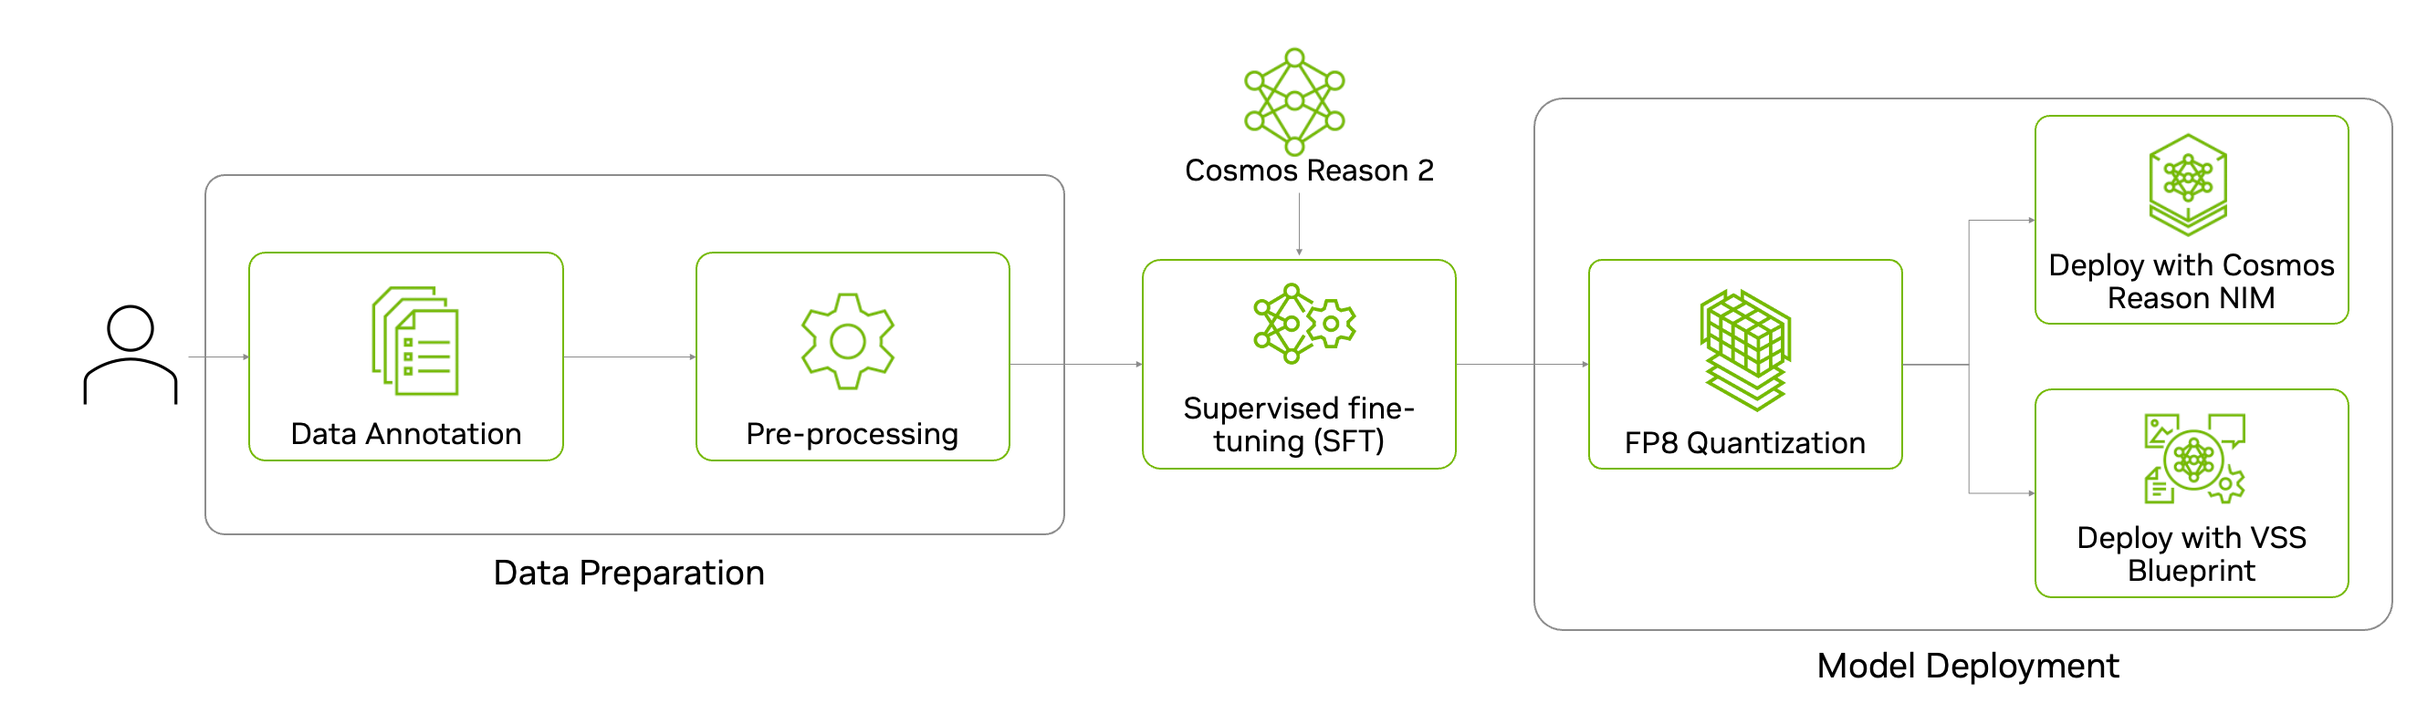
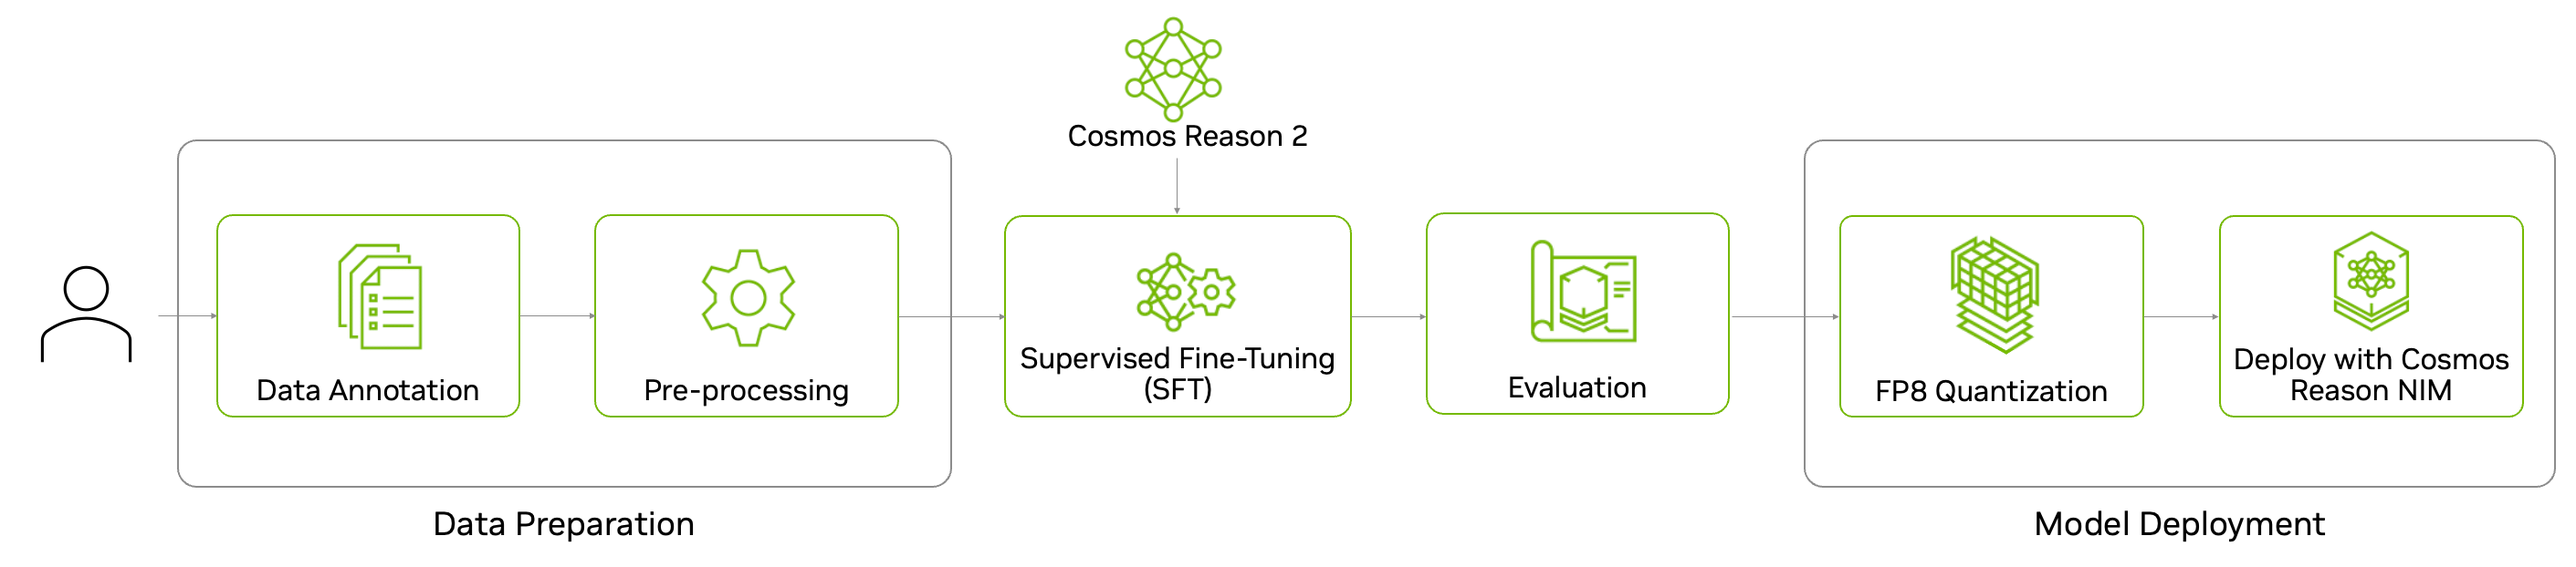
update recipe to address feedback

diff --git a/docs/recipes/post_training/reason2/intelligent-transportation/post_training.md b/docs/recipes/post_training/reason2/intelligent-transportation/post_training.md
@@ -20,9 +20,14 @@ Before fine-tuning the model, let's review the zero-shot performance of the mode
 
 <br>
 
+Here’s the end-to-end workflow to fine-tune Cosmos Reason 2 - from data preparation, to training and evaluating the model, and finally quantizing and deploying the model for inference.
+<img src="assets/e2e_workflow.png"/>
+
+<br>
+
 ## Data Preparation
 
-For this experiment, we used the [WovenTraffic Safety](https://woven-visionai.github.io/wts-dataset-homepage/) (WTS) Dataset from [Woven by Toyota, Inc.](https://woven.toyota/en/). This is a real-world pedestrian-centric traffic video dataset featuring 255 traffic scenarios, including staged pedestrian-related accidents across 1.2k video segments. It provides detailed textual descriptions of pedestrian and vehicle behavior, bounding box annotations, and traffic Visual Question Answering (VQA) with multiple-choice questions (MCQ).
+For this experiment, we use the [WovenTraffic Safety](https://woven-visionai.github.io/wts-dataset-homepage/) (WTS) Dataset from [Woven by Toyota, Inc.](https://woven.toyota/en/). This is a real-world pedestrian-centric traffic video dataset featuring 255 traffic scenarios, including staged pedestrian-related accidents across 1.2k video segments. It provides detailed textual descriptions of pedestrian and vehicle behavior, bounding box annotations, and traffic Visual Question Answering (VQA) with multiple-choice questions (MCQ).
 
 > **Note**: The goal of this example is to demonstrate post-training on Cosmos Reason 2. The dataset used in this experiment is governed by the terms specified in the [WTS DATASET Terms of Use](https://woven-visionai.github.io/wts-dataset-homepage/#downloads).
 
@@ -31,7 +36,7 @@ Here are examples of the video clips and textual descriptions of the pedestrian 
 
 <br>
 
-For this experiment, we fine-tune the Cosmos Reason 2 model on the Environment VQA subset of the WTS dataset. The subset contains 341 videos with 5k MCQ question-answer pairs. The average video length is about 75 seconds.
+For this experiment, we fine-tune the Cosmos Reason 2 model on the Environment VQA subset of the WTS dataset. The subset contains 341 videos with 5.6k MCQ question-answer pairs. The average video length is about 75 seconds.
 
 ### Data Pre-processing
 
@@ -59,7 +64,7 @@ This format is a JSON-based structure commonly used for visual SFT on VLMs, incl
   }
   ```
 
-To pre-process the dataset, run the following command:
+To pre-process the dataset, run the following command using the provided [script](https://github.com/nvidia-cosmos/cosmos-cookbook/tree/main/scripts/examples/reason2/intelligent-transportation/data_preprocess.py):
 
    ```shell
    # From scripts/examples/reason2/intelligent-transportation directory
@@ -70,7 +75,7 @@ To pre-process the dataset, run the following command:
 
 ## Post-Training with Supervised Fine-Tuning (SFT)
 
-After preprocessing, the WTS dataset is in Llava dataset format and ready for training. To launch training, we follow the cosmos-rl training command in [Cosmos Reason 2 SFT Guide](https://github.com/nvidia-cosmos/cosmos-reason2/blob/main/examples/cosmos_rl/README.md#supervised-fine-tuning-sft):
+After preprocessing, the WTS dataset is in Llava dataset format and ready for training. To launch training, we follow the cosmos-rl training command in [Cosmos Reason 2 SFT Guide](https://github.com/nvidia-cosmos/cosmos-reason2/blob/main/examples/cosmos_rl/README.md#supervised-fine-tuning-sft). The specific code for this experiment can be found [here](https://github.com/nvidia-cosmos/cosmos-cookbook/tree/main/scripts/examples/reason2/intelligent-transportation).
 
 ```shell
 # From scripts/examples/reason2/intelligent-transportation directory
@@ -117,7 +122,7 @@ For Qwen3-VL (the backbone model of Cosmos Reason 2), the model compresses the i
 
 ### Model Evaluation
 
-After training, we evaluate the model on the validation set of the Environment VQA subset of the WTS dataset. The evaluation script below will save the model responses and accuracy score in the `results` directory.
+After training, we evaluate the model on the validation set of the Environment VQA subset of the WTS dataset. Similar to the training set, the validation set is also a collection of multiple choice questions (MCQ) on traffic and pedestrian videos. It contains 171 videos with 2.6k MCQ questions, which are unseen during training. The evaluation script below will save the model responses and accuracy score in the `results` directory.
 
 The `eval_config.yaml` needs to be updated with the path to the post-trained model and the validation set.
 
@@ -132,15 +137,15 @@ python evaluate.py --config eval_config.yaml
 
 ### Quantitative Results
 
-First, let's review the quantitative results on the environment VQA validation set of the WTS dataset for each experiment: one with "nframes 8" (3k vision tokens) and another with "fps 1, total pixels 8,388,608" (8k vision tokens). Similar to the training set, the validation set is also a collection of multiple choice questions (MCQ) on traffic and pedestrian videos, which are unseen during training.
+First, let's review the quantitative results on the environment VQA validation set for each experiment: one with "nframes 8" (3k vision tokens) and another with "fps 1, total pixels 8,388,608" (8k vision tokens). As calculated above, the 3k tokens setup samples fewer frames but uses a higher resolution per frame, while the 8k tokens setup samples more frames but at a lower resolution per frame.
 
-Overall, we see the accuracy jumps over 92% for both experiments after 1 epoch of training. For 3k tokens, accuracy keeps increasing over 3 epochs of training and reaches 93.65% in the end, while for 8k tokens, the model is more prone to overfitting with more training epochs. For this task and dataset, 3k vision tokens give us overall better performance and will converge faster and provide faster inference times.
+For this task, it appears that having higher resolution per frame (even with fewer frames sampled) is more valuable for the model to accurately understand the traffic scene and pedestrian situations. This is reflected in the results: both experiments surpass 92% accuracy after just 1 epoch of training. With the 3k tokens setup, accuracy continues to improve over 3 epochs, reaching 93.65%, whereas the 8k tokens model tends to overfit with additional training. Thus, for this dataset, prioritizing higher resolution (3k vision tokens) leads to better overall performance, faster convergence, and faster inference times.
 
 <img src="assets/quan_result.png" width="600"/>
 
 ### Training Time
 
-We ran all the experiments on 1 node (8 GPUs) of A100. The table below captures the training time for the two different settings with one training epoch. As expected, with 3k vision tokens, the model converged roughly 3 times as fast as 8k vision tokens. In summary, you can train a very accurate model using this amount of data in an hour or less.
+We ran all the experiments on 1 node (8 GPUs) of A100. The table below captures the training time for the two different settings with three training epoch. As expected, with 3k vision tokens, the model converged roughly 3 times as fast as 8k vision tokens. In summary, you can train a very accurate model using this amount of data in about an hour.
 
 | Method | Vision Configuration                  | Training Time for 3 epochs (on 8 A100s) |
 |--------|---------------------------------------|----------------------------|
@@ -171,10 +176,13 @@ The script to quantize the model to FP8 is provided in the NVIDIA [Cosmos Reason
 2. Run the quantization script.
 
    ```shell
-   python ./scripts/quantize.py --model_id '/path/to/post-trained/reason2' --save_dir '/path/to/quantized/model --precision fp8'
+   python ./scripts/quantize.py \
+      --model_id '/path/to/post-trained/reason2' \
+      --save_dir '/path/to/quantized/model' \
+      --precision fp8
    ```
 
-Before deploying the quantized model for inference, you should run an evaluation on the model for accuracy and ensure quantization doesn’t introduce significant accuracy regression.
+Before deploying the quantized model for inference, you should run an evaluation on the model for accuracy and ensure quantization doesn’t introduce significant accuracy regression. Please vis the [Cosmos Reason 2 NIM page](https://catalog.ngc.nvidia.com/orgs/nim/teams/nvidia/containers/cosmos-reason2-8b) for more details and to get the NIM image container.
 
 ### Deploy on NVIDIA NIM
 
@@ -184,6 +192,7 @@ To deploy a post-trained checkpoint, go to the [fine-tune-model](https://docs.nv
 
 ```shell
 export CUSTOM_WEIGHTS=/path/to/post-trained/model
+export NIM_IMAGE=/path/to/nim/image/container
 docker run -it --rm --name=cosmos-reason2-8b \
     --gpus all \
     --shm-size=32GB \

diff --git a/docs/recipes/post_training/reason2/intelligent-transportation/setup.md b/docs/recipes/post_training/reason2/intelligent-transportation/setup.md
@@ -6,13 +6,13 @@ This guide covers the setup requirements for post-training Cosmos Reason 2 for i
 
 ### Minimum Hardware Requirements
 
-- **GPU**: 8 A100, H100, or later GPU (recommended minimum)
-- **Memory**: Sufficient VRAM for model inference
-- **Storage**: Adequate space for model weights
+- **GPU**: 8xA100, H100, or later GPUs (recommended minimum).
+- **Memory**: Sufficient VRAM for model training and inference. We recommend at least 80GB per GPU.
+- **Storage**: Adequate space for model weights and datasets.
 
 ### Software Requirements
 
-The setup requires the Cosmos Reason 2 and cosmos-rl repositories and Cosmos Reason 2 model to be properly installed and configured.
+The setup requires the [Cosmos Reason 2](https://github.com/nvidia-cosmos/cosmos-reason2) and [cosmos-rl](https://github.com/nvidia-cosmos/cosmos-rl) repositories and [Cosmos Reason 2-8B model](https://huggingface.co/nvidia/Cosmos-Reason2-8B) to be properly installed and configured.
 
 ## Installation
 
